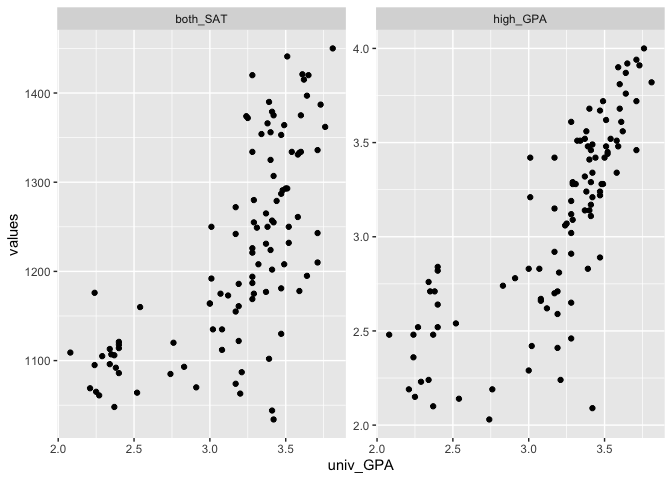
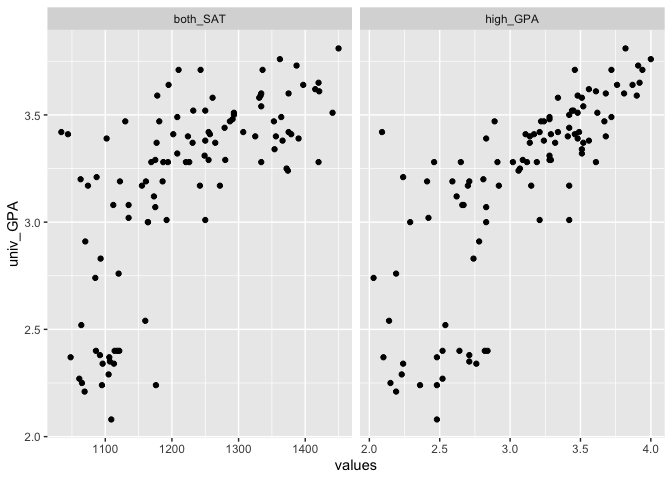
resubmit challenge 10

diff --git a/challenges/c10-sat-assignment.md b/challenges/c10-sat-assignment.md
@@ -43,7 +43,6 @@ Lily Jiang
       and `both_SAT`. Compare the prediction accuracy and hypothesis
       test
       results.](#q7-fit-a-model-predicting-univ_gpa-using-both-high_gpa-and-both_sat-compare-the-prediction-accuracy-and-hypothesis-test-results)
-  - [Synthesize](#synthesize)
     - [**q8** Using the results from all previous q’s, answer the
       following
       questions.](#q8-using-the-results-from-all-previous-qs-answer-the-following-questions)
@@ -70,14 +69,16 @@ Thomas MacFarland.
 library(tidyverse)
 ```
 
-    ## ── Attaching packages ─────────────────────────────────────── tidyverse 1.3.2 ──
-    ## ✔ ggplot2 3.4.0      ✔ purrr   1.0.1 
-    ## ✔ tibble  3.1.8      ✔ dplyr   1.0.10
-    ## ✔ tidyr   1.2.1      ✔ stringr 1.5.0 
-    ## ✔ readr   2.1.3      ✔ forcats 0.5.2 
+    ## ── Attaching core tidyverse packages ──────────────────────── tidyverse 2.0.0 ──
+    ## ✔ dplyr     1.1.2     ✔ readr     2.1.4
+    ## ✔ forcats   1.0.0     ✔ stringr   1.5.0
+    ## ✔ ggplot2   3.4.2     ✔ tibble    3.2.1
+    ## ✔ lubridate 1.9.2     ✔ tidyr     1.3.0
+    ## ✔ purrr     1.0.1     
     ## ── Conflicts ────────────────────────────────────────── tidyverse_conflicts() ──
     ## ✖ dplyr::filter() masks stats::filter()
     ## ✖ dplyr::lag()    masks stats::lag()
+    ## ℹ Use the conflicted package (<http://conflicted.r-lib.org/>) to force all conflicts to become errors
 
 ``` r
 library(readxl)
@@ -243,9 +244,9 @@ df_composite %>%
     names_to = "GPA_and_SAT",
     values_to = "values"
   ) %>%
-  ggplot(aes(x = univ_GPA, y = values)) +
+  ggplot(aes(x = values, y = univ_GPA)) +
   geom_point() +
-  facet_wrap(~GPA_and_SAT, scales = "free_y")
+  facet_wrap(~GPA_and_SAT, scales = "free_x")
 ```
 
 ![](c10-sat-assignment_files/figure-gfm/q2-task-1.png)<!-- -->
@@ -391,28 +392,45 @@ Finally, let’s use the bootstrap to perform the same test using
 ### **q5** Use the bootstrap to approximate a confidence interval for `corr[high_GPA, univ_GPA`. Compare your results—both the estimate and confidence interval—to your results from q4.
 
 ``` r
-set.seed(1)
-df_bootstrap <-
-  df_composite %>%
-  bootstraps(times = 1000) %>%
-  mutate(df = map(splits, ~ analysis(.x))) %>%
-  slice(1:10) %>%
-  unnest(df)
+# The `splits` generated by `bootstraps` look just like `df_composite`, so all we have to do is write a function that produces a tibble with `term` and `estimate` set. After that, `int_pctl` will handle the confidence interval and estimate calculations
+corr_high_GPA <-
+  function(split) {
+    tibble(
+      term = "corr",
+      estimate = cor(
+        analysis(split) %>%
+          pull(high_GPA),
+        analysis(split) %>%
+          pull(univ_GPA)
+      )
+    )
+  }
 
-cor.test(df_bootstrap$high_GPA, df_bootstrap$univ_GPA, method = "pearson")
+## Approximate a bootstrap CI
+df_composite %>%
+  bootstraps(times = 1000) %>%
+  mutate(estimates = map(splits, corr_high_GPA)) %>%
+  int_pctl(estimates)
 ```
 
-    ## 
-    ##  Pearson's product-moment correlation
-    ## 
-    ## data:  df_bootstrap$high_GPA and df_bootstrap$univ_GPA
-    ## t = 39.902, df = 1048, p-value < 2.2e-16
-    ## alternative hypothesis: true correlation is not equal to 0
-    ## 95 percent confidence interval:
-    ##  0.7513667 0.7995023
-    ## sample estimates:
-    ##       cor 
-    ## 0.7765652
+    ## # A tibble: 1 × 6
+    ##   term  .lower .estimate .upper .alpha .method   
+    ##   <chr>  <dbl>     <dbl>  <dbl>  <dbl> <chr>     
+    ## 1 corr   0.693     0.781  0.850   0.05 percentile
+
+``` r
+## incorrect implementation below (for my personal reference)
+## Generating the samples then combining them together produces higher than expected confidence intervals
+# set.seed(1)
+# df_bootstrap <-
+#   df_composite %>%
+#   bootstraps(times = 1000) %>%
+#   mutate(df = map(splits, ~ analysis(.x))) %>%
+#   slice(1:10) %>%
+#   unnest(df)
+
+# cor.test(df_bootstrap$high_GPA, df_bootstrap$univ_GPA, method = "pearson")
+```
 
 **Observations**:
 
@@ -487,31 +505,9 @@ tools rather than do it by hand.
 
 ``` r
 fit_basic <-
-  lm(df_train$univ_GPA ~ df_train$both_SAT)
+  df_train %>%
+  lm(formula = univ_GPA ~ both_SAT)
 
-summary(fit_basic)
-```
-
-    ## 
-    ## Call:
-    ## lm(formula = df_train$univ_GPA ~ df_train$both_SAT)
-    ## 
-    ## Residuals:
-    ##      Min       1Q   Median       3Q      Max 
-    ## -0.80287 -0.17661  0.02994  0.19661  0.74141 
-    ## 
-    ## Coefficients:
-    ##                    Estimate Std. Error t value Pr(>|t|)    
-    ## (Intercept)       0.0259841  0.3964049   0.066    0.948    
-    ## df_train$both_SAT 0.0025654  0.0003219   7.969 1.08e-11 ***
-    ## ---
-    ## Signif. codes:  0 '***' 0.001 '**' 0.01 '*' 0.05 '.' 0.1 ' ' 1
-    ## 
-    ## Residual standard error: 0.336 on 78 degrees of freedom
-    ## Multiple R-squared:  0.4488, Adjusted R-squared:  0.4417 
-    ## F-statistic:  63.5 on 1 and 78 DF,  p-value: 1.082e-11
-
-``` r
 ## NOTE: The following computes confidence intervals on regression coefficients
 fit_basic %>%
   tidy(
@@ -521,10 +517,16 @@ fit_basic %>%
 ```
 
     ## # A tibble: 2 × 7
-    ##   term              estimate std.error statistic  p.value conf.low conf.high
-    ##   <chr>                <dbl>     <dbl>     <dbl>    <dbl>    <dbl>     <dbl>
-    ## 1 (Intercept)        0.0260   0.396       0.0655 9.48e- 1 -1.02      1.07   
-    ## 2 df_train$both_SAT  0.00257  0.000322    7.97   1.08e-11  0.00172   0.00342
+    ##   term        estimate std.error statistic  p.value conf.low conf.high
+    ##   <chr>          <dbl>     <dbl>     <dbl>    <dbl>    <dbl>     <dbl>
+    ## 1 (Intercept)  0.0260   0.396       0.0655 9.48e- 1 -1.02      1.07   
+    ## 2 both_SAT     0.00257  0.000322    7.97   1.08e-11  0.00172   0.00342
+
+``` r
+rsquare(fit_basic, df_validate)
+```
+
+    ## [1] 0.5383881
 
 **Observations**:
 
@@ -534,10 +536,10 @@ fit_basic %>%
     different from 0 because the interval doesn’t include 0 within it.
 - By itself, how well does `both_SAT` predict `univ_GPA`?
   - Somewhat well; this linear model fitting created an adjusted R^2
-    value of 0.4417, which is certainly more than 0 (indicating there is
-    *some* indicative correlation). But because 0.4417 is also quite far
-    from a perfect 1, `both_SAT` is not a very accurate predictor of
-    `univ_GPA`.
+    value of 0.5383881, which is certainly more than 0 (indicating there
+    is *some* indicative correlation). But because 0.5383881 is also
+    quite far from a perfect 1, `both_SAT` is not a very accurate
+    predictor of `univ_GPA`.
 
 Remember from `e-model03-interp-warnings` that there are challenges with
 interpreting regression coefficients! Let’s investigate that idea
@@ -549,31 +551,9 @@ further.
 # model with just high_GPA
 
 fit_basic <-
-  lm(df_train$univ_GPA ~ df_train$high_GPA)
+  df_train %>%
+  lm(formula = univ_GPA ~ high_GPA)
 
-summary(fit_basic)
-```
-
-    ## 
-    ## Call:
-    ## lm(formula = df_train$univ_GPA ~ df_train$high_GPA)
-    ## 
-    ## Residuals:
-    ##      Min       1Q   Median       3Q      Max 
-    ## -0.68906 -0.12069  0.01431  0.18179  0.91092 
-    ## 
-    ## Coefficients:
-    ##                   Estimate Std. Error t value Pr(>|t|)    
-    ## (Intercept)        1.11582    0.19299   5.782 1.45e-07 ***
-    ## df_train$high_GPA  0.66663    0.06174  10.797  < 2e-16 ***
-    ## ---
-    ## Signif. codes:  0 '***' 0.001 '**' 0.01 '*' 0.05 '.' 0.1 ' ' 1
-    ## 
-    ## Residual standard error: 0.2866 on 78 degrees of freedom
-    ## Multiple R-squared:  0.5991, Adjusted R-squared:  0.594 
-    ## F-statistic: 116.6 on 1 and 78 DF,  p-value: < 2.2e-16
-
-``` r
 ## NOTE: The following computes confidence intervals on regression coefficients
 fit_basic %>%
   tidy(
@@ -583,40 +563,23 @@ fit_basic %>%
 ```
 
     ## # A tibble: 2 × 7
-    ##   term              estimate std.error statistic  p.value conf.low conf.high
-    ##   <chr>                <dbl>     <dbl>     <dbl>    <dbl>    <dbl>     <dbl>
-    ## 1 (Intercept)          1.12     0.193       5.78 1.45e- 7    0.606     1.63 
-    ## 2 df_train$high_GPA    0.667    0.0617     10.8  3.79e-17    0.504     0.830
+    ##   term        estimate std.error statistic  p.value conf.low conf.high
+    ##   <chr>          <dbl>     <dbl>     <dbl>    <dbl>    <dbl>     <dbl>
+    ## 1 (Intercept)    1.12     0.193       5.78 1.45e- 7    0.606     1.63 
+    ## 2 high_GPA       0.667    0.0617     10.8  3.79e-17    0.504     0.830
+
+``` r
+rsquare(fit_basic, df_validate)
+```
+
+    ## [1] 0.6383604
 
 ``` r
 # model with both_SAT + high_GPA
 fit_basic <-
-  lm(df_train$univ_GPA ~ (df_train$both_SAT+df_train$high_GPA))
+  df_train %>%
+  lm(formula = univ_GPA ~ (both_SAT + high_GPA))
 
-summary(fit_basic)
-```
-
-    ## 
-    ## Call:
-    ## lm(formula = df_train$univ_GPA ~ (df_train$both_SAT + df_train$high_GPA))
-    ## 
-    ## Residuals:
-    ##      Min       1Q   Median       3Q      Max 
-    ## -0.68463 -0.13922  0.00468  0.16222  0.91790 
-    ## 
-    ## Coefficients:
-    ##                    Estimate Std. Error t value Pr(>|t|)    
-    ## (Intercept)       0.7577417  0.3621513   2.092   0.0397 *  
-    ## df_train$both_SAT 0.0005339  0.0004574   1.167   0.2466    
-    ## df_train$high_GPA 0.5704601  0.1028619   5.546 3.96e-07 ***
-    ## ---
-    ## Signif. codes:  0 '***' 0.001 '**' 0.01 '*' 0.05 '.' 0.1 ' ' 1
-    ## 
-    ## Residual standard error: 0.2859 on 77 degrees of freedom
-    ## Multiple R-squared:  0.6061, Adjusted R-squared:  0.5959 
-    ## F-statistic: 59.24 on 2 and 77 DF,  p-value: 2.643e-16
-
-``` r
 ## NOTE: The following computes confidence intervals on regression coefficients
 fit_basic %>%
   tidy(
@@ -626,21 +589,28 @@ fit_basic %>%
 ```
 
     ## # A tibble: 3 × 7
-    ##   term              estimate std.error statistic     p.value  conf.low conf.high
-    ##   <chr>                <dbl>     <dbl>     <dbl>       <dbl>     <dbl>     <dbl>
-    ## 1 (Intercept)       0.758     0.362         2.09 0.0397      -0.199      1.71   
-    ## 2 df_train$both_SAT 0.000534  0.000457      1.17 0.247       -0.000674   0.00174
-    ## 3 df_train$high_GPA 0.570     0.103         5.55 0.000000396  0.299      0.842
+    ##   term        estimate std.error statistic     p.value  conf.low conf.high
+    ##   <chr>          <dbl>     <dbl>     <dbl>       <dbl>     <dbl>     <dbl>
+    ## 1 (Intercept) 0.758     0.362         2.09 0.0397      -0.199      1.71   
+    ## 2 both_SAT    0.000534  0.000457      1.17 0.247       -0.000674   0.00174
+    ## 3 high_GPA    0.570     0.103         5.55 0.000000396  0.299      0.842
+
+``` r
+rsquare(fit_basic, df_validate)
+```
+
+    ## [1] 0.6757461
 
 **Observations**:
 
 - How well do these models perform, compared to the one you built in q6?
   - Both models outperform the model in q6, as noted with the higher R^2
     values.
-  - The model with just `high_GPA` has an adjusted R^2 value of 0.594.
-    The model with both variables has an adjusted R^2 value of 0.5959.
-    Comparing these numbers with the 0.4417 from before, both of these
-    models have a much higher correlation than the model in q6.
+  - The model with just `high_GPA` has an adjusted R^2 value of
+    0.6383604. The model with both variables has an adjusted R^2 value
+    of 0.6757461. Comparing these numbers with the 0.5383881 from
+    before, both of these models have a much higher correlation than the
+    model in q6.
 - What is the confidence interval on the coefficient of `both_SAT` when
   including `high_GPA` as a predictor? Is this coefficient significantly
   different from zero?
@@ -648,9 +618,14 @@ fit_basic %>%
     significantly different from 0, as 0 actually falls within this
     interval.
 - How do the hypothesis test results compare with the results in q6?
-  - Both are better than the results of q6.
-
-## Synthesize
+  - Both the model with just `high_GPA` and the model with just
+    `both_SAT` have a confidence interval that doesn’t include 0, but
+    the `high_GPA` model has an interval of 0.5036122 - 0.8296483, which
+    is much higher above 0 than `both_SAT`’s interval of 0.001715376 -
+    0.003415381.
+  - For this model with both `high_GPA` and `both_SAT`, the confidence
+    interval on the coefficient of `both_SAT` includes 0, but the model
+    in q6 has an interval that doesn’t include 0.
 
 <!-- ------------------------- -->
 
